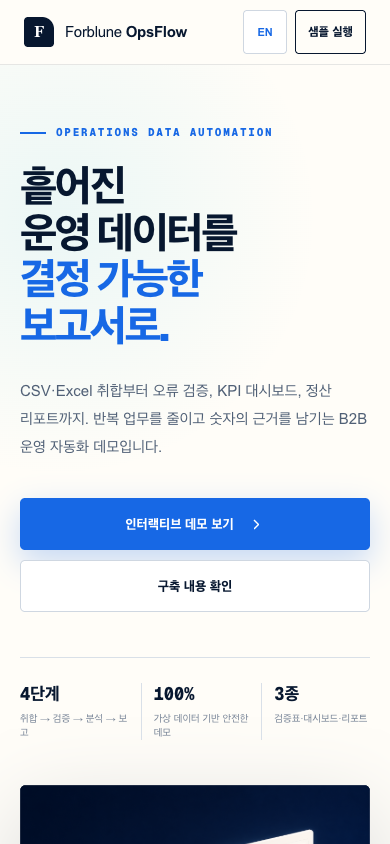
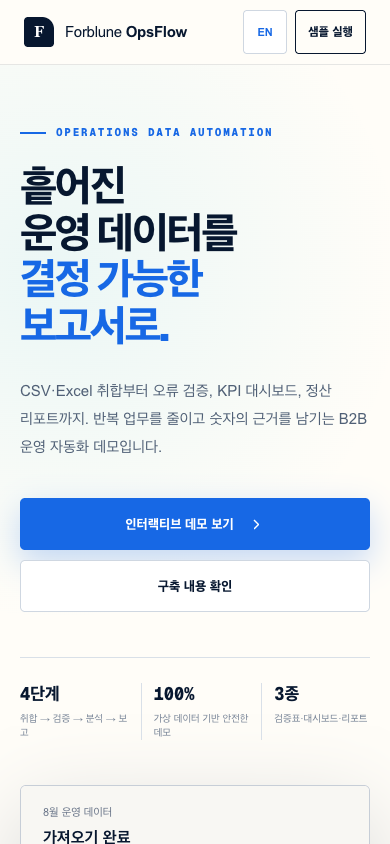
Replace generated hero with verifiable data UI

Changed region(s): [[0.0308, 0.9242, 0.9538, 1.0]]

diff --git a/app/globals.css b/app/globals.css
@@ -53,11 +53,27 @@ svg { width: 1.05em; fill: none; stroke: currentColor; stroke-width: 1.8; stroke
 .hero-metrics div + div { padding-left: 22px; border-left: 1px solid #d9e0e8; }
 .hero-metrics dt { font: 800 17px var(--font-geist-mono), monospace; }
 .hero-metrics dd { margin: 7px 0 0; color: #748194; font-size: 10px; line-height: 1.4; }
-.hero-art { min-height: 0; aspect-ratio: 3 / 2; align-self: center; position: relative; border-radius: 7px 0 0 7px; overflow: hidden; box-shadow: var(--shadow); background: var(--ink); }
-.hero-art::after { content: ""; position: absolute; inset: 0; box-shadow: inset 0 0 0 1px rgba(255,255,255,.12); pointer-events: none; }
-.hero-art img { width: 100%; height: 100%; object-fit: cover!important; object-position: center; }
-.hero-art-badge { position: absolute; left: 24px; bottom: 24px; right: 24px; padding: 14px 16px; display: flex; align-items: center; gap: 10px; color: white; background: rgba(6,21,46,.78); border: 1px solid rgba(255,255,255,.18); backdrop-filter: blur(18px); font: 600 11px var(--font-geist-mono), monospace; }
-.hero-art-badge strong { margin-left: auto; color: #70dded; }
+.hero-proof { min-width: 0; align-self: center; border: 1px solid #c7ced7; border-radius: 7px 0 0 7px; overflow: hidden; box-shadow: var(--shadow); background: #fff; }
+.hero-proof__topbar { min-height: 82px; padding: 18px 22px; display: flex; align-items: center; justify-content: space-between; gap: 18px; border-bottom: 1px solid #d7dde4; background: #f8f7f3; }
+.hero-proof__topbar div { display: grid; gap: 5px; }
+.hero-proof__topbar div span { color: #667286; font-size: 11px; }
+.hero-proof__topbar div strong { color: var(--ink); font-size: 16px; }
+.hero-proof__file { padding: 7px 9px; border: 1px solid #c9d0d9; color: #43516a; background: #fff; font: 650 10px var(--font-geist-mono), monospace; }
+.hero-proof__summary { display: grid; grid-template-columns: repeat(3,1fr); border-bottom: 1px solid #d7dde4; }
+.hero-proof__summary div { min-height: 100px; padding: 18px 20px; display: flex; flex-direction: column; justify-content: center; gap: 5px; }
+.hero-proof__summary div+div { border-left: 1px solid #d7dde4; }
+.hero-proof__summary strong { color: var(--ink); font: 800 30px var(--font-geist-mono), monospace; }
+.hero-proof__summary span { color: #667286; font-size: 11px; }
+.hero-proof__table { overflow: hidden; }
+.hero-proof__row { min-height: 54px; padding: 0 20px; display: grid; grid-template-columns: 74px minmax(105px,.7fr) 1fr; align-items: center; gap: 14px; border-bottom: 1px solid #e1e5ea; color: #586579; font: 550 11px var(--font-geist-mono), monospace; }
+.hero-proof__row strong { color: #28364c; font-weight: 700; }
+.hero-proof__row--header { min-height: 40px; color: #7b8594; background: #f5f6f7; font-size: 9px; letter-spacing: .06em; text-transform: uppercase; }
+.hero-proof__row--review { background: #fff8ed; }
+.result { width: fit-content; padding: 5px 7px; border: 1px solid; font-size: 9px; font-weight: 800; }
+.result--pass { border-color: #9eb8ae; color: #286956; background: #f0f7f4; }
+.result--review { border-color: #e0b471; color: #925a0e; background: #fff3de; }
+.hero-proof__footer { min-height: 58px; padding: 0 20px; display: flex; align-items: center; gap: 10px; color: white; background: #0f294a; font: 600 11px var(--font-geist-mono), monospace; }
+.hero-proof__footer strong { margin-left: auto; color: #70dded; }
 .pulse { width: 8px; height: 8px; border-radius: 50%; background: #4cdfb2; box-shadow: 0 0 0 5px rgba(76,223,178,.12); }
 
 .trust-strip { min-height: 70px; padding: 15px clamp(24px, 7vw, 110px); display: flex; align-items: center; justify-content: space-between; gap: 18px; color: #506077; border-top: 1px solid #dbe1e7; border-bottom: 1px solid #dbe1e7; background: #f8f6f1; font: 700 10px var(--font-geist-mono), monospace; letter-spacing: .08em; text-transform: uppercase; }
@@ -167,12 +183,12 @@ td em { color: #ba7611; font-style: normal; font-weight: 700; }
 .site-footer { min-height: 110px; padding: 30px clamp(24px, 5vw, 80px); display: flex; align-items: center; justify-content: space-between; color: #58677a; border-top: 1px solid #dfe4e9; font-size: 10px; }.site-footer .brand { color: var(--ink); }.site-footer > a { font-weight: 800; color: #3c4f66; }
 
 @media (max-width: 1080px) {
-  .hero { grid-template-columns: 1fr; padding-top: 70px; }.hero-copy { max-width: 780px; }.hero-art { min-height: 470px; }.app-shell { grid-template-columns: 190px minmax(0,1fr); }.dashboard-grid { grid-template-columns: repeat(2,1fr); }.chart-card.wide { grid-column: span 2; }.process-grid { grid-template-columns: repeat(2,1fr); }.process-grid article:nth-child(3) { border-top:1px solid #294361; }.process-grid article:nth-child(4) { border-top:1px solid #294361; }
+  .hero { grid-template-columns: 1fr; padding-top: 70px; }.hero-copy { max-width: 780px; }.hero-proof { max-width: 860px; }.app-shell { grid-template-columns: 190px minmax(0,1fr); }.dashboard-grid { grid-template-columns: repeat(2,1fr); }.chart-card.wide { grid-column: span 2; }.process-grid { grid-template-columns: repeat(2,1fr); }.process-grid article:nth-child(3) { border-top:1px solid #294361; }.process-grid article:nth-child(4) { border-top:1px solid #294361; }
 }
 
 @media (max-width: 760px) {
   .site-header { height: 65px; }.site-header nav { display: none; }.header-cta { padding: 9px 12px; }.language-switch { min-width: 44px; padding: 9px 8px; }
-  .hero { min-height: auto; padding: 60px 20px 65px; gap: 45px; }.hero h1 { font-size: 43px; }.hero-lead { font-size: 15px; }.hero-actions { flex-direction: column; }.hero-metrics { gap: 12px; }.hero-metrics div+div { padding-left: 12px; }.hero-art { min-height: 0; aspect-ratio: 3 / 2; border-radius: 6px; }.hero-art img { object-position: center; }
+  .hero { min-height: auto; padding: 60px 20px 65px; gap: 45px; }.hero h1 { font-size: 43px; }.hero-lead { font-size: 15px; }.hero-actions { flex-direction: column; }.hero-metrics { gap: 12px; }.hero-metrics div+div { padding-left: 12px; }.hero-proof { border-radius: 6px; }.hero-proof__topbar { align-items: flex-start; flex-direction: column; }.hero-proof__summary div { padding: 14px 12px; }.hero-proof__summary strong { font-size: 24px; }.hero-proof__row { grid-template-columns: 62px 1fr; padding: 10px 14px; }.hero-proof__row > :last-child { grid-column: 2; }.hero-proof__row--header > :last-child { display: none; }.hero-proof__footer { font-size: 9px; }
   .trust-strip { justify-content: flex-start; flex-wrap: wrap; overflow: visible; }.trust-strip span { flex: 0 0 auto; }
   .demo-section { padding: 80px 12px; }.section-heading { grid-template-columns: 1fr; gap: 20px; padding: 0 8px; }.section-heading h2,.case-intro h2 { font-size: 39px; }
   .app-shell { grid-template-columns: 1fr; }.app-sidebar { display: none; }.app-main { padding: 20px 14px 24px; }.app-topbar { align-items: flex-start; }.top-actions { flex-direction: column; }.small-ghost { display: none!important; }.toolbar { flex-wrap: wrap; padding: 10px 0; }.toolbar-summary { margin-left: 0; }.export-button { margin-left: auto; }.tabbar button { padding: 12px 10px; }.tabbar button svg { display: none; }

diff --git a/app/OpsFlowDemo.tsx b/app/OpsFlowDemo.tsx
@@ -1,7 +1,6 @@
 "use client";
 
 import { ChangeEvent, useEffect, useMemo, useState } from "react";
-import Image from "next/image";
 
 type View = "validation" | "dashboard" | "report";
 type Status = "정상" | "확인 필요";
@@ -181,9 +180,27 @@ export function OpsFlowDemo() {
             <div><dt>{tr("3종", "3 views")}</dt><dd>{tr("검증표·대시보드·리포트", "Validation · dashboard · report")}</dd></div>
           </dl>
         </div>
-        <div className="hero-art" role="img" aria-label={tr("데이터가 검증을 거쳐 대시보드와 리포트로 정리되는 추상 이미지", "Abstract data pipeline flowing through validation into a dashboard and report")}>
-          <Image src="/opsflow-hero.png" alt="" fill priority sizes="(max-width: 1080px) 100vw, 55vw" />
-          <div className="hero-art-badge"><span className="pulse" /> {tr("검증 규칙 실행 중", "Validation rules running")} <strong>12 / 12</strong></div>
+        <div className="hero-proof" aria-label={tr("실제 데모와 같은 검증 결과 미리보기", "Validation preview using the same sample data as the live demo")}>
+          <div className="hero-proof__topbar">
+            <div>
+              <span>{tr("8월 운영 데이터", "August operations data")}</span>
+              <strong>{tr("가져오기 완료", "Import complete")}</strong>
+            </div>
+            <span className="hero-proof__file">campaign-report.csv</span>
+          </div>
+          <div className="hero-proof__summary">
+            <div><strong>12</strong><span>{tr("읽은 행", "rows read")}</span></div>
+            <div><strong>9</strong><span>{tr("검증 통과", "passed")}</span></div>
+            <div><strong>3</strong><span>{tr("확인 필요", "to review")}</span></div>
+          </div>
+          <div className="hero-proof__table" role="table" aria-label={tr("샘플 검증 결과", "Sample validation results")}>
+            <div className="hero-proof__row hero-proof__row--header" role="row"><span>{tr("상태", "Status")}</span><span>ID</span><span>{tr("검증 결과", "Result")}</span></div>
+            <div className="hero-proof__row" role="row"><span className="result result--pass">{tr("통과", "Pass")}</span><span>OF-0811-01</span><strong>{tr("규칙 3개 통과", "3 rules passed")}</strong></div>
+            <div className="hero-proof__row hero-proof__row--review" role="row"><span className="result result--review">{tr("검토", "Review")}</span><span>OF-0809-02</span><strong>{tr("담당자 누락", "Missing owner")}</strong></div>
+            <div className="hero-proof__row hero-proof__row--review" role="row"><span className="result result--review">{tr("검토", "Review")}</span><span>OF-0808-02</span><strong>{tr("환불률 13.2%", "Refund rate 13.2%")}</strong></div>
+            <div className="hero-proof__row" role="row"><span className="result result--pass">{tr("통과", "Pass")}</span><span>OF-0806-02</span><strong>{tr("규칙 3개 통과", "3 rules passed")}</strong></div>
+          </div>
+          <div className="hero-proof__footer"><span className="pulse" /> {tr("오류 행은 보고서에서 제외됩니다", "Flagged rows stay out of the report")} <strong>9 / 12</strong></div>
         </div>
       </section>
 

diff --git a/app/page.tsx b/app/page.tsx
@@ -8,7 +8,7 @@ export const metadata: Metadata = {
   openGraph: {
     title: "Forblune OpsFlow",
     description: "데이터 취합부터 검증, 대시보드, 리포트까지 한 흐름으로.",
-    images: ["/opsflow-hero.png"],
+    images: ["/opsflow-proof-og.png"],
   },
 };
 

diff --git a/README.md b/README.md
@@ -29,6 +29,8 @@ npm test
 
 화면의 회사, 캠페인, 매출 수치는 모두 가상 데이터입니다. 업로드한 CSV는 브라우저에서만 처리하며 별도 서버에 저장하지 않습니다.
 
+첫 화면의 시각 자료도 생성형 3D 이미지가 아니라 실제 데모와 같은 검증표 구조와 샘플 행을 사용합니다. 보이는 수치와 오류 상태는 아래 인터랙티브 데모에서 그대로 확인할 수 있습니다.
+
 ## English
 
 Forblune OpsFlow is a bilingual B2B operations portfolio demo that turns CSV and spreadsheet inputs into validated data, KPI dashboards, and export-ready reports. Use the `EN` switch in the header for an English experience suitable for Upwork, Contra, and international client proposals.
